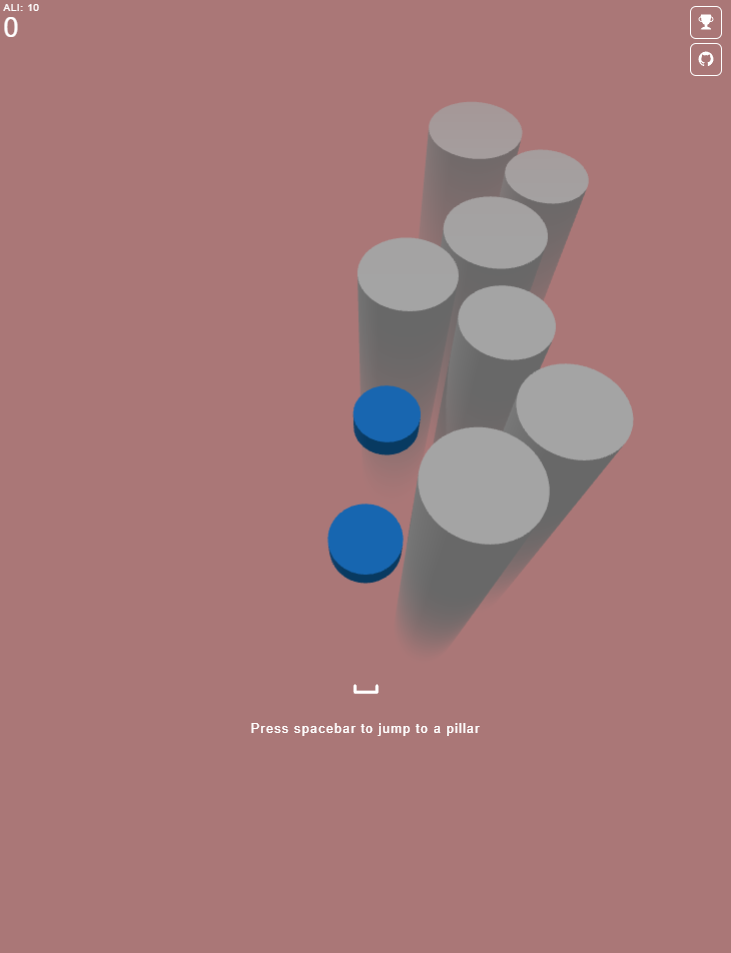
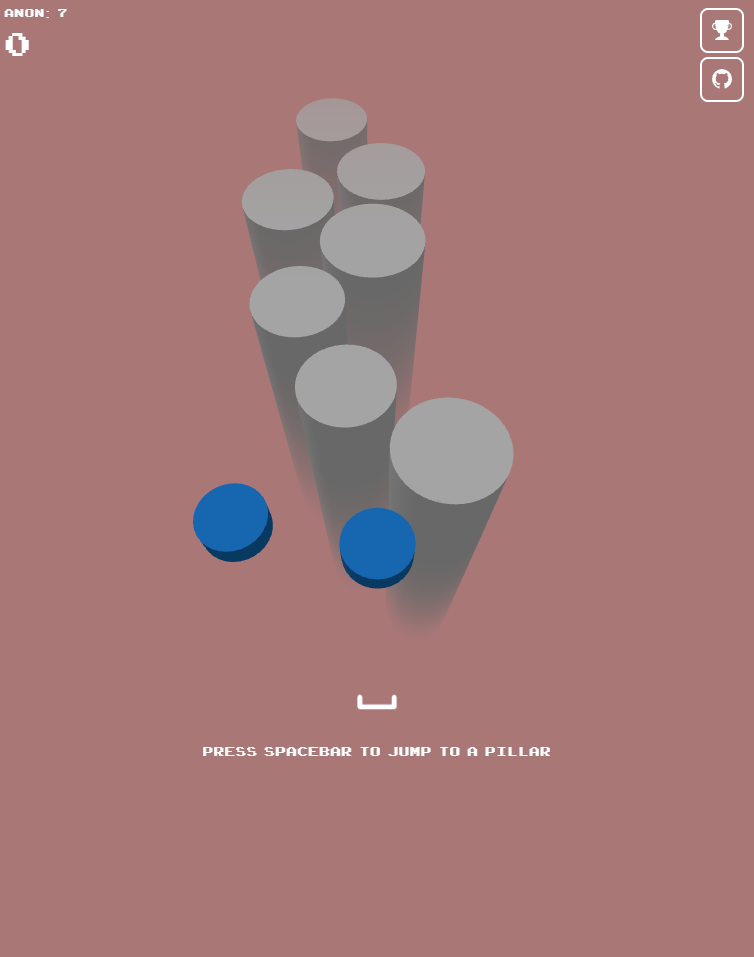
Updated README.md

diff --git a/README.md b/README.md
@@ -1,6 +1,6 @@
-# PillarJump
+# Pillar Jump
 
-Play the game: https://pillarjump.web.app/
+A game where you jump from pillar to pillar. Play the game: https://pillarjump.web.app/
 
 <img src="./images/game-screenshot-00.png" alt="drawing" height="512"/>
 
